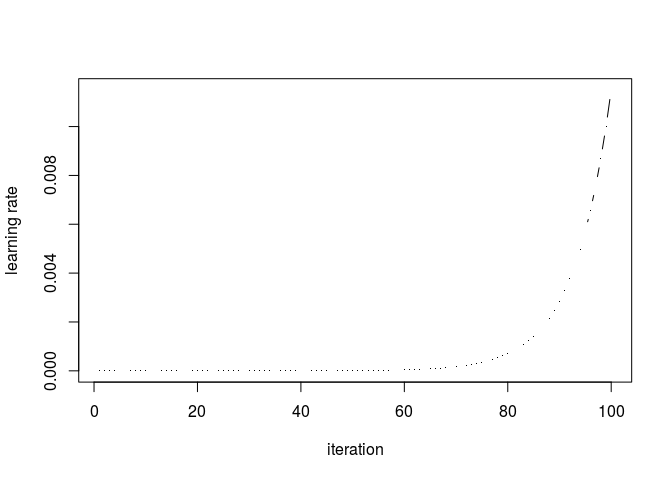
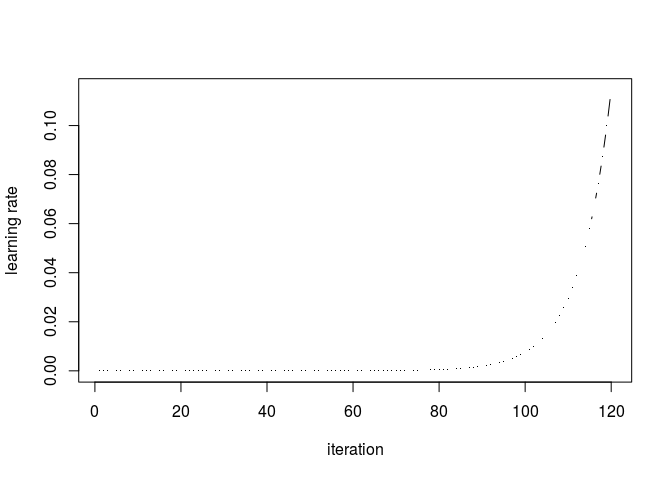
Bigger learning rate in the lr finder. History plot of a failed attempt with a bigger learning rate inside the notebook. Chunk that produce the plot with a name for the README. Minor addition of text.

diff --git a/resnet50-lr-finder-and-cyclic-lr-with-r.md b/resnet50-lr-finder-and-cyclic-lr-with-r.md
@@ -24,9 +24,9 @@ policy.
   - bigger images
   - load best model after training :heavy\_check\_mark:
   - lr finder :heavy\_check\_mark:
-  - add data augmentation - \[x\]
-  - plot the data augmentation - \[x\]
-  - implement one cycle policy ? - \[x\]
+  - add data augmentation :heavy\_check\_mark:
+  - plot the data augmentation :heavy\_check\_mark:
+  - implement one cycle policy ? :heavy\_check\_mark:
   - visualization of what the convnets learn
   - fine
     tuning
@@ -287,8 +287,8 @@ str(batch)
 ```
 
     ## List of 2
-    ##  $ : num [1:32, 1:224, 1:224, 1:3] 70.1 150.7 168 207.2 56 ...
-    ##  $ : num [1:32, 1:4] 0 0 1 1 1 0 1 1 0 0 ...
+    ##  $ : num [1:32, 1:224, 1:224, 1:3] 58.9 120.1 55.8 164 81 ...
+    ##  $ : num [1:32, 1:4] 1 0 1 0 1 0 0 0 0 0 ...
 
 # Import pre-trained model
 
@@ -419,12 +419,16 @@ callback_logger <- callback_lambda(on_batch_end=callback_lr_log)
 callback_log_acc_lr <- LogMetrics$new()
 ```
 
+After some successfull training for a learning rate between 1e-5 and
+1e-3, I extend the plot to a maximum of 0.1.
+
 ``` r
 lr0<-1e-8
-lr_max<-0.01
+#lr_max<-0.01
+lr_max<-0.1
 
 #n_iteration :
-n<-100
+n<-120 #from 100 to 120
 q<-(lr_max/lr0)^(1/(n-1))
 ```
 
@@ -464,13 +468,13 @@ data <- data.frame("Learning_rate" = lr_hist, "Loss" = callback_log_acc_lr$loss)
 head(data)
 ```
 
-    ##   Learning_rate     Loss
-    ## 1  1.149757e-08 1.120135
-    ## 2  1.321941e-08 1.006694
-    ## 3  1.519911e-08 1.244990
-    ## 4  1.747528e-08 1.028072
-    ## 5  2.009233e-08 1.206817
-    ## 6  2.310130e-08 1.081789
+    ##   Learning_rate      Loss
+    ## 1  1.145048e-08 1.1687186
+    ## 2  1.311134e-08 0.9881935
+    ## 3  1.501311e-08 1.2071823
+    ## 4  1.719072e-08 1.0566913
+    ## 5  1.968419e-08 1.1361701
+    ## 6  2.253934e-08 1.1140846
 
 Learning rate vs loss
 :
@@ -493,17 +497,17 @@ scale_y_continuous(name="Loss", limits=limits)+ geom_point() +  geom_smooth(span
 
     ## `geom_smooth()` using method = 'loess' and formula 'y ~ x'
 
-    ## Warning: Removed 20 rows containing non-finite values (stat_smooth).
+    ## Warning: Removed 24 rows containing non-finite values (stat_smooth).
 
-    ## Warning: Removed 20 rows containing missing values (geom_point).
-
-    ## Warning: Removed 3 rows containing missing values (geom_smooth).
+    ## Warning: Removed 24 rows containing missing values (geom_point).
 
 ![](resnet50-lr-finder-and-cyclic-lr-with-r_files/figure-gfm/unnamed-chunk-38-1.png)<!-- -->
 
 Based on this graph I would go on a base\_lr=1e-5, and a max lr of 1e-3.
 
-# Training with cyclic lr
+# Training
+
+## Training with cyclic lr
 
 After the improvement of the performance the neural net (by setting the
 right loss/activation of the last layer), it is time to focus a bit on
@@ -582,6 +586,17 @@ nb_epochs=10
 n_iter<-n*nb_epochs
 ```
 
+### About the learning rate
+
+Based on the previous graph, I used a learning rate of 1e-3. The article
+[The 1cycle policy](https://sgugger.github.io/the-1cycle-policy.html),
+mentionned that we can use a bigger learning rate as a regularizer, but
+a maximum learning rate of 5e-3 gave average results in my my previous
+attempt :
+
+![Val loss and Train loss for a maximum learning rate of
+5e-3](resnet50-lr-finder-and-cyclic-lr-with-r_files/figure-gfm/maxlr5e3.png)
+
 ``` r
 l_rate <- Cyclic_LR(iteration=1:n_iter, base_lr=1e-5, max_lr=1e-3, step_size=floor(n/2),
                         mode='triangular', gamma=0.99, scale_fn=NULL, scale_mode='cycle')
@@ -638,12 +653,12 @@ plot(history)
 
     ## `geom_smooth()` using formula 'y ~ x'
 
-![](resnet50-lr-finder-and-cyclic-lr-with-r_files/figure-gfm/unnamed-chunk-47-1.png)<!-- -->
+![](resnet50-lr-finder-and-cyclic-lr-with-r_files/figure-gfm/plot_perforance-1.png)<!-- -->
 
 Load best model :
 
 ``` r
-##model<-load_model_hdf5("/kaggle/working/raw_model.h5")
+#model<-load_model_hdf5("raw_model.h5")
 ```
 
 # Submit
